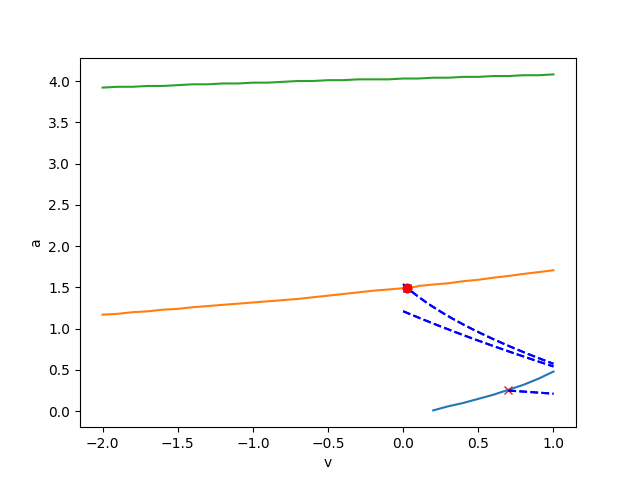
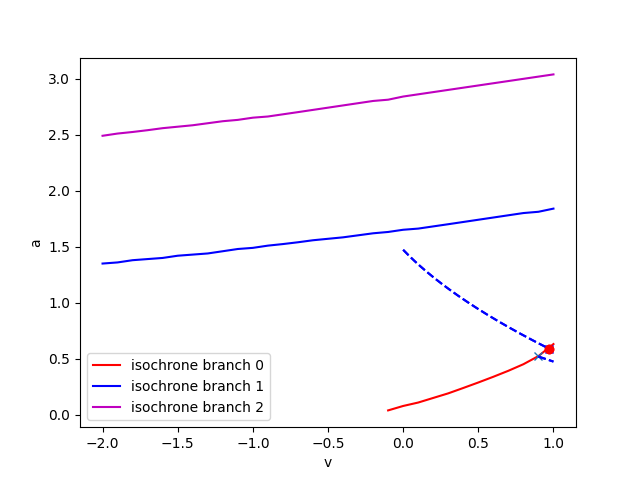
update debug mode plots

diff --git a/mrt_phase_numeric/src/Isochrone/Isochrone.py b/mrt_phase_numeric/src/Isochrone/Isochrone.py
@@ -13,8 +13,6 @@ from mrt_phase_numeric.src.DataTypes.timeseries_util import (
 from mrt_phase_numeric.src.line_intersection.line_intersection import (get_curve_intersection,
                                                                        get_curve_intersection_faster,
                                                                        get_curves_overlap)
-from mrt_phase_numeric.src.util.save_util import write_curve_to_file, write_t_list_to_file, \
-    write_data_to_file
 from mrt_phase_numeric.src.DataTypes.DataTypes import DataTypes
 from mrt_phase_numeric.src.Curve.Curve import Curve
 
@@ -201,12 +199,15 @@ class IsochroneBaseClass:
             if self.debug_mode:
                 plt.clf()
                 if hasattr(self, "curves"):
-                    _plot_(self.curves)
+                    color_scheme = ['r', 'b', 'm']
+                    for l, curve in enumerate(self.curves):
+                        _plot(curve, color_scheme[l], label=f'isochrone branch {l}')
                 else:
                     _plot(self.curve)
                 plt.plot(point[0], point[1], 'x')
                 plt.xlabel('v')
                 plt.ylabel('a')
+                plt.legend()
 
             rt = self.get_return_time_for_point(_curve, point)
             print(rt)
@@ -458,11 +459,11 @@ class IsochroneMultipleBranchesBaseClass(IsochroneBaseClass):
             return None
 
         for n_thr_crossings, timeseries_slice in enumerate(timeseries_slices):
-            if self.debug_mode: _plot(timeseries_slice, 'b--')
 
             n_branch = self.get_possible_n_branch_for_crossing(_curve.n_branch, n_thr_crossings)
 
             if n_branch is None:
+                if self.debug_mode: _plot(timeseries_slice, 'b--')
                 continue
             # skip if n_branch is higher than there are branches, can happen when trajectory walks around
             elif n_branch >= len(self.curves):
@@ -505,11 +506,14 @@ class IsochroneMultipleBranchesBaseClass(IsochroneBaseClass):
                     intersection_indice = intersection[1] + timeseries_len_previous_traj + _start_indice
 
                 if self.debug_mode:
+                    _plot(timeseries_slice[:intersection[1]], 'b--')
                     plt.plot(timeseries_slice[intersection[1], 0],
                              timeseries_slice[intersection[1], 1], 'ro')
                     # _plot(self.curves[n_branch])
 
                 return intersection_indice
+
+            if self.debug_mode: _plot(timeseries_slice, 'b--')
 
         print('couldnt find intersection')
         return None
@@ -578,12 +582,13 @@ class IsochroneMultipleBranchesBaseClass(IsochroneBaseClass):
             self.curves[i], self.mean_return_time_pro_point[i] = curve.trim_curve(self.mean_return_time_pro_point[i])
 
 
-def _plot(data, draw_style=None):
-    if len(data) != 0:
-        if draw_style is None:
-            plt.plot(data[:, 0], data[:, 1])
-        else:
-            plt.plot(data[:, 0], data[:, 1], draw_style)
+def _plot(data, *args, **kwargs): #, draw_style=None):
+    # if len(data) != 0:
+    #     if draw_style is None:
+    #         plt.plot(data[:, 0], data[:, 1])
+    #     else:
+    #         plt.plot(data[:, 0], data[:, 1], draw_style)
+    plt.plot(data[:, 0], data[:, 1], *args, **kwargs)
 
 
 def _plot_(data):

diff --git a/mrt_phase_numeric/isochrones/get_isochrones/timeseries_grid_config.py b/mrt_phase_numeric/isochrones/get_isochrones/timeseries_grid_config.py
@@ -23,7 +23,7 @@ isochrone_config = {
 }
 
 init_config = {
-    'init_type': InitTypes.INIT_FROM_SCRATCH, # 'from_scratch',
+    'init_type': InitTypes.INIT_FROM_OBJECT, # 'from_scratch',
     # 'init_type': INIT_FROM_OBJECT,
     'data_type': DataTypes.TIMESERIES_GRID_TYPE,
     'multiple_branches': True,

diff --git a/mrt_phase_numeric/isochrones/get_isochrones/get_multiple_isochrones.py b/mrt_phase_numeric/isochrones/get_isochrones/get_multiple_isochrones.py
@@ -30,7 +30,8 @@ isochrone = None
 isochrone_init_helper = None
 error = 1
 
-phi_inits = [0.2, 0.3, 0.4, 0.5]
+# phi_inits = [0.2, 0.3, 0.4, 0.5]
+phi_inits = [0.0]
     #0.1, 0.2, 0.3, 0.4, 0.5, 0.6, 0.7, 0.8, 0.9]
 # phi_inits = [0.2]
 phi_init_index = 0
